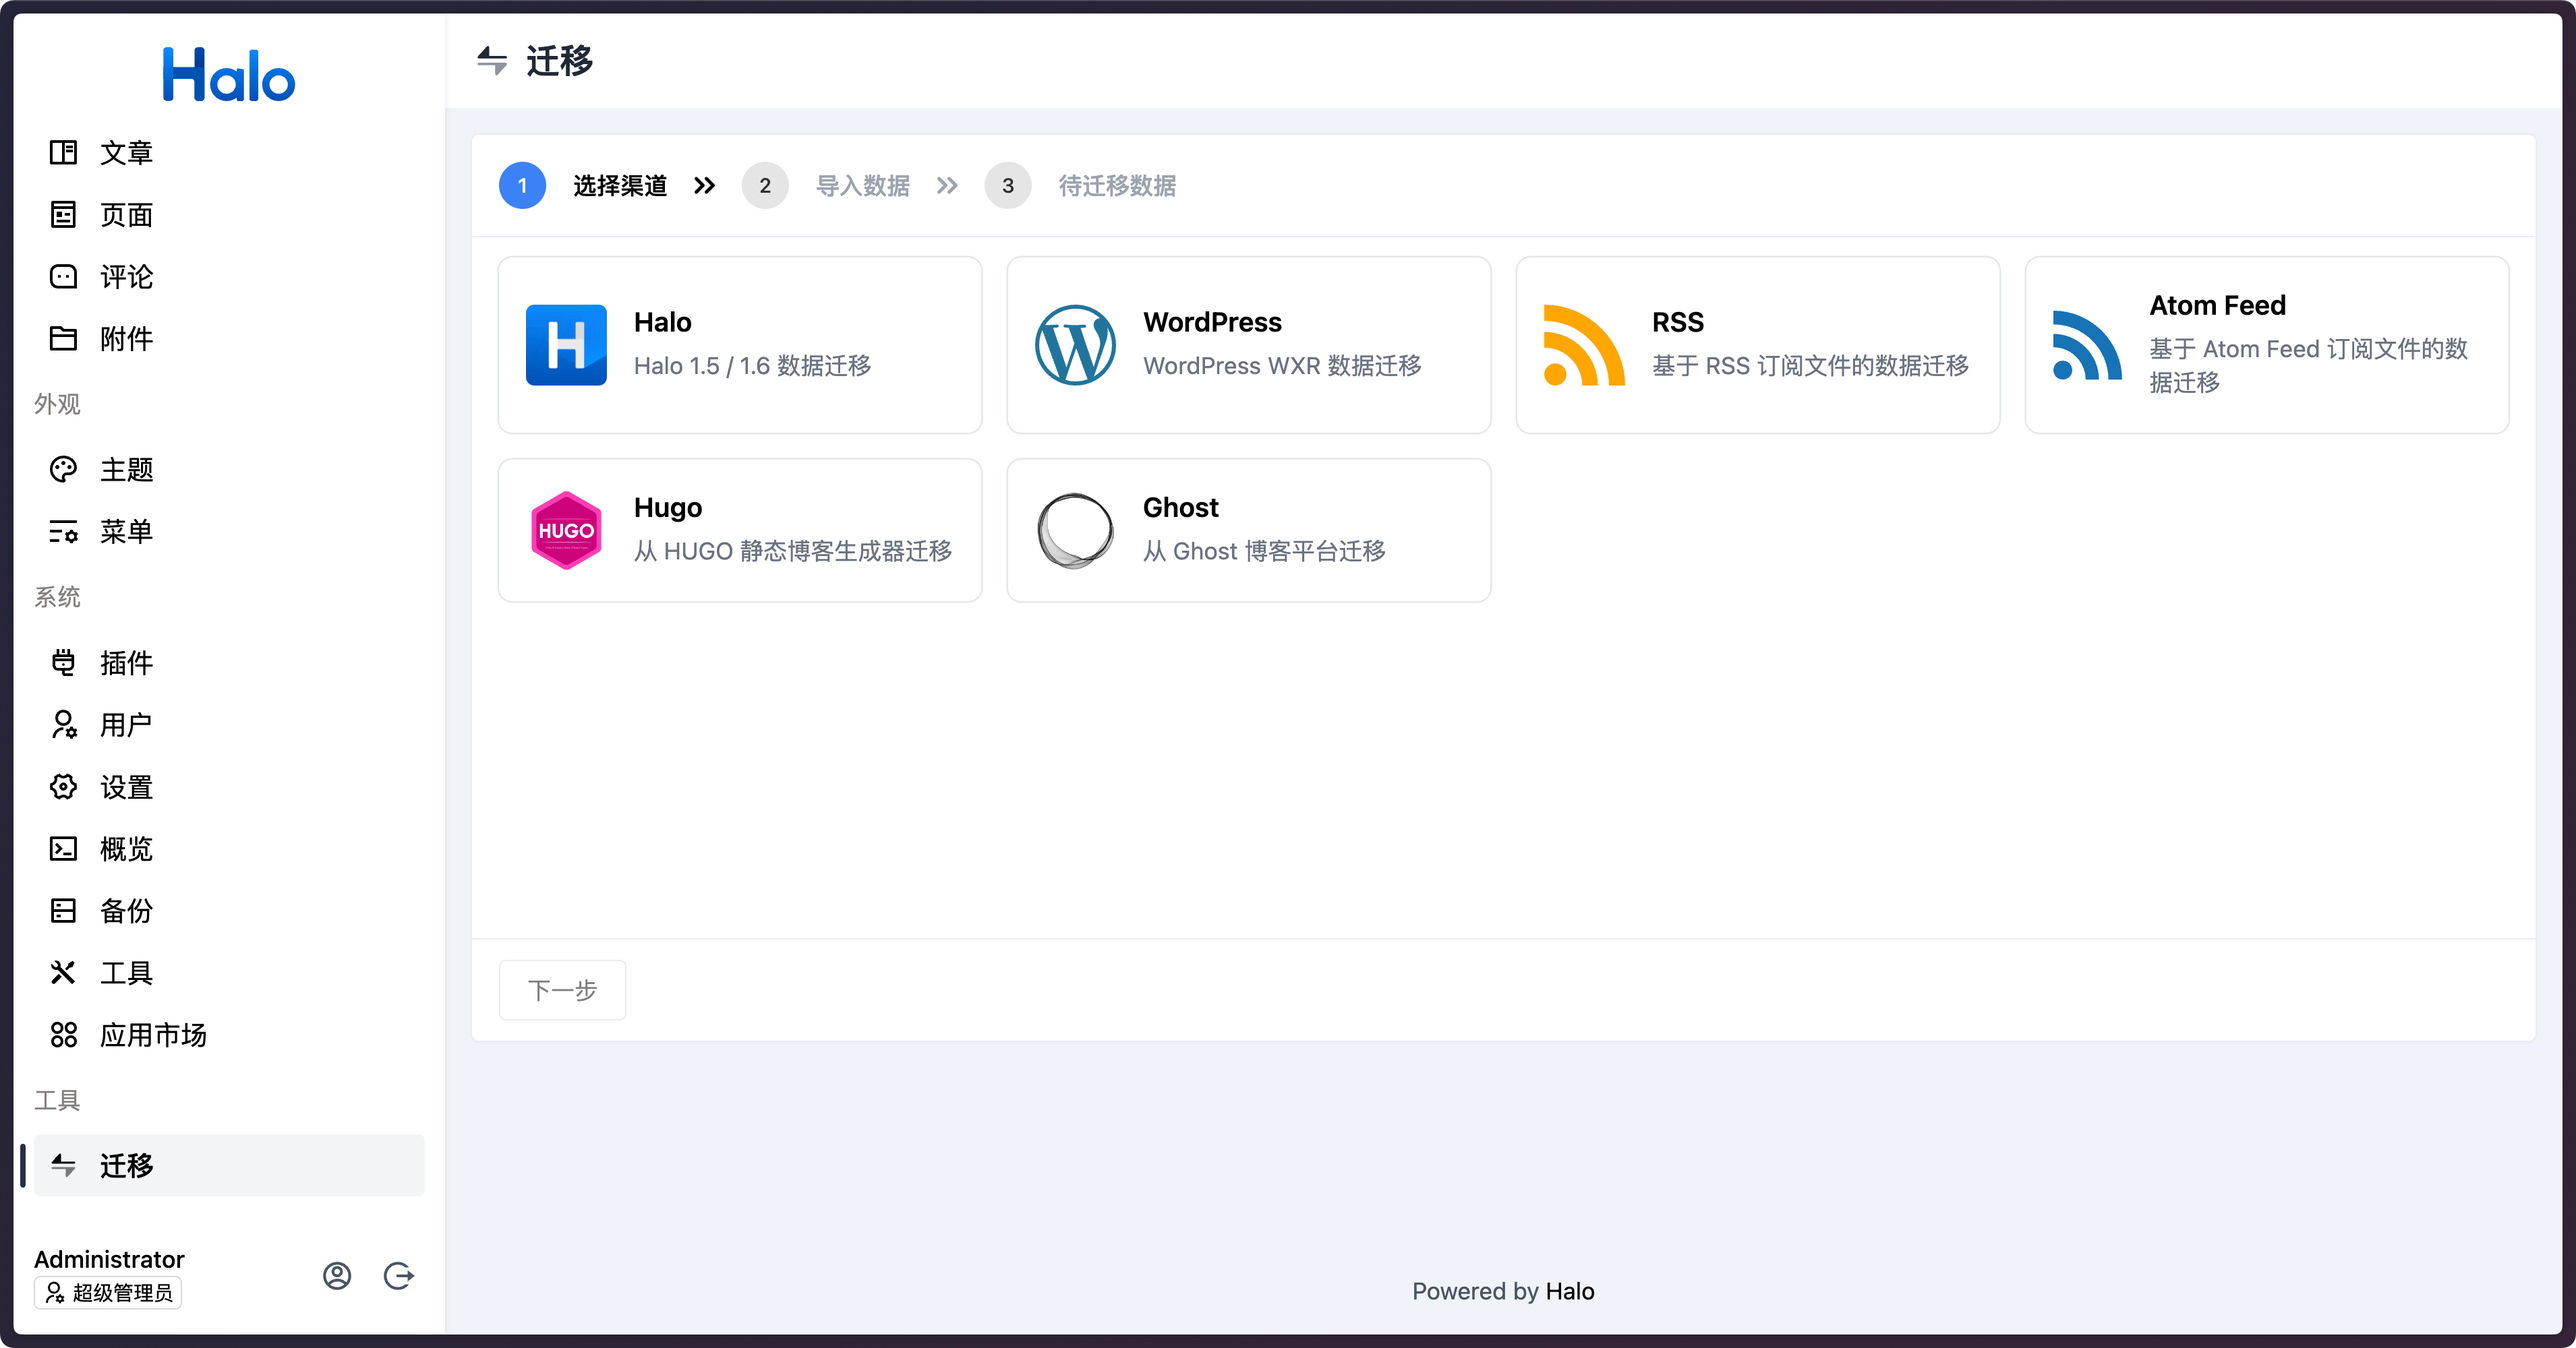
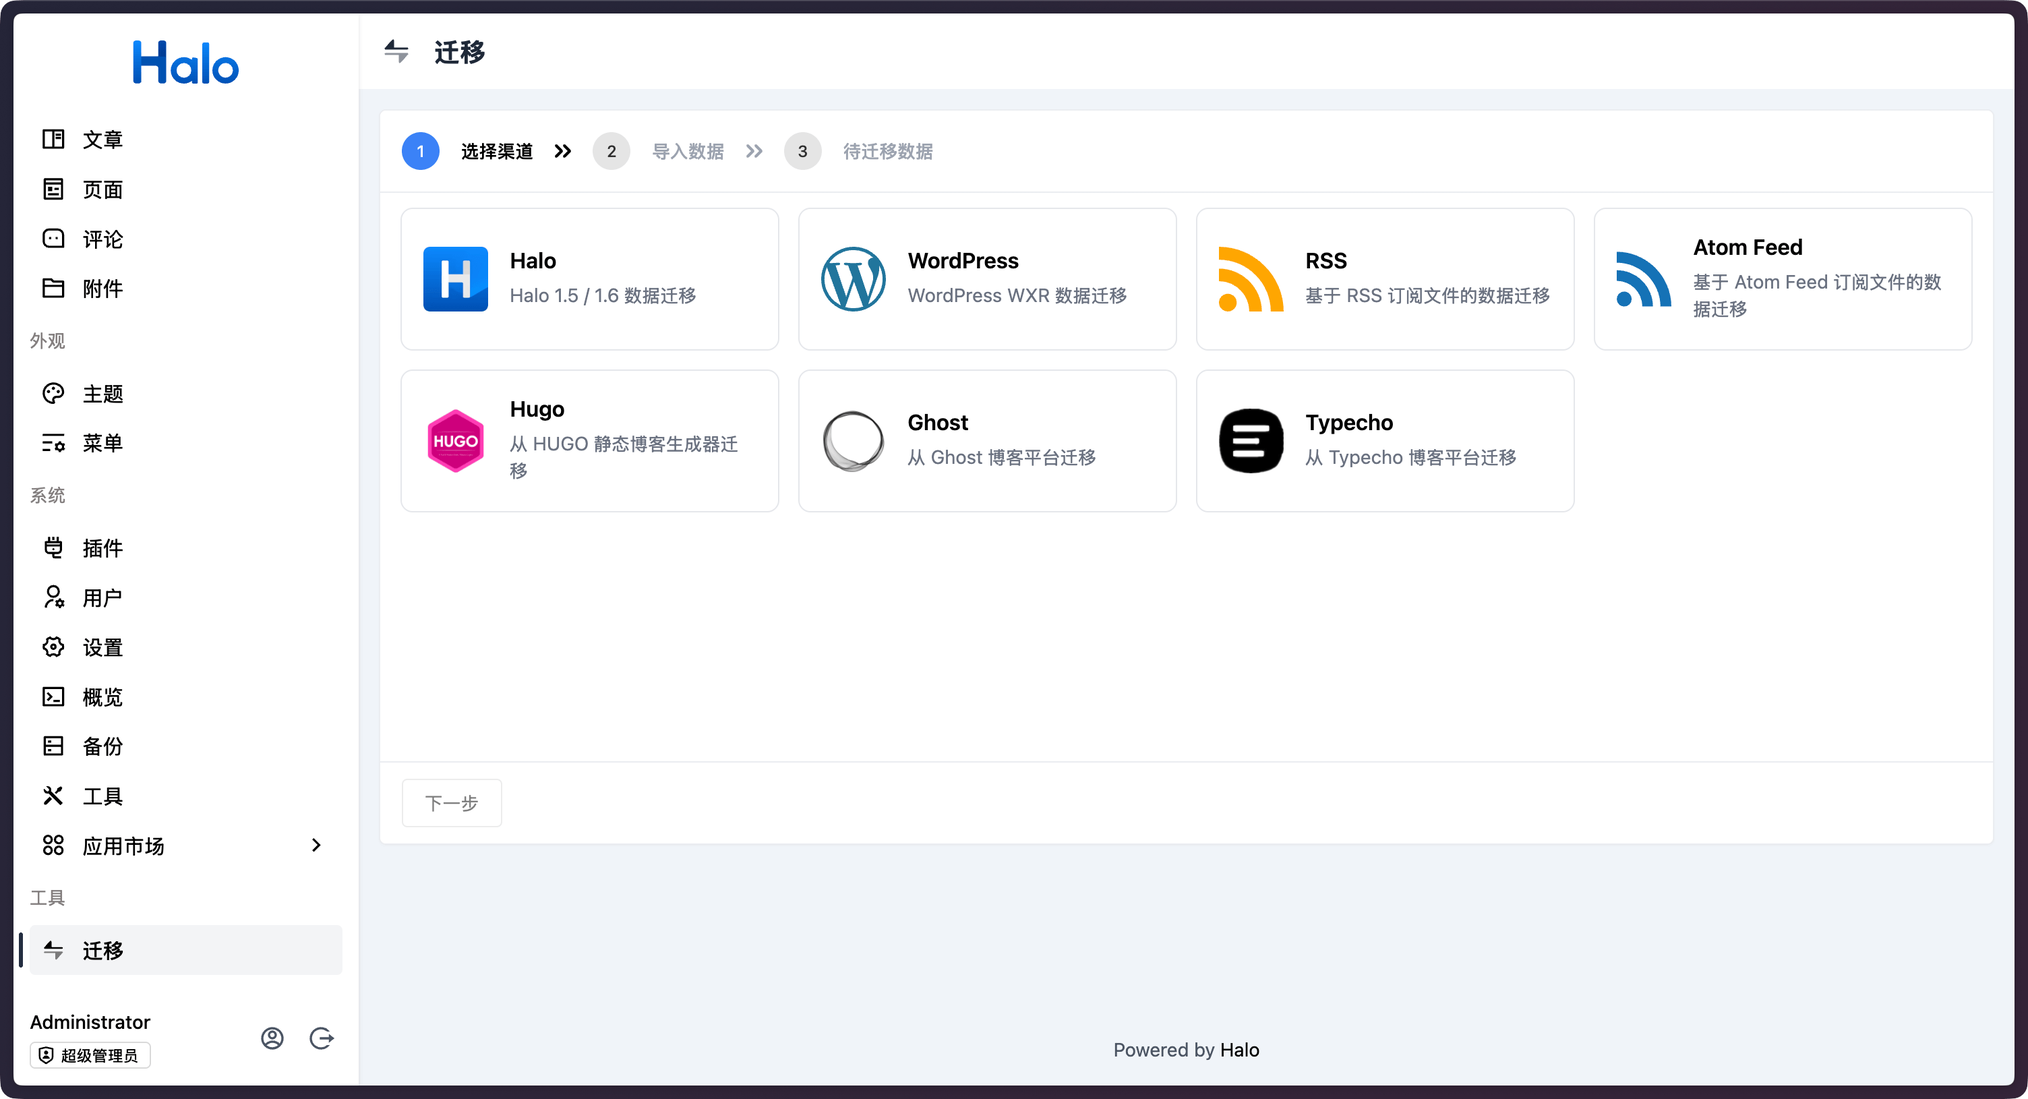
Update docs for Typecho support

diff --git a/README.md b/README.md
@@ -11,6 +11,7 @@
 3. RSS / Atom 订阅链接
 4. [Hugo](https://gohugo.io/)
 5. [Ghost](https://ghost.org/)
+6. [Typecho](https://github.com/typecho/typecho)
 
 ## 使用方式
 
@@ -30,8 +31,8 @@
 所需环境：
 
 1. Java 17
-2. Node 18
-3. pnpm 8
+2. Node 20
+3. pnpm 10
 4. Docker (可选)
 
 克隆项目：

diff --git a/docs/index.md b/docs/index.md
@@ -11,6 +11,7 @@
 3. RSS / Atom 订阅链接
 4. [Hugo](https://gohugo.io/)
 5. [Ghost](https://ghost.org/)
+6. [Typecho](https://github.com/typecho/typecho)
 
 ## 使用方式
 
@@ -30,8 +31,8 @@
 所需环境：
 
 1. Java 17
-2. Node 18
-3. pnpm 8
+2. Node 20
+3. pnpm 10
 4. Docker (可选)
 
 克隆项目：
